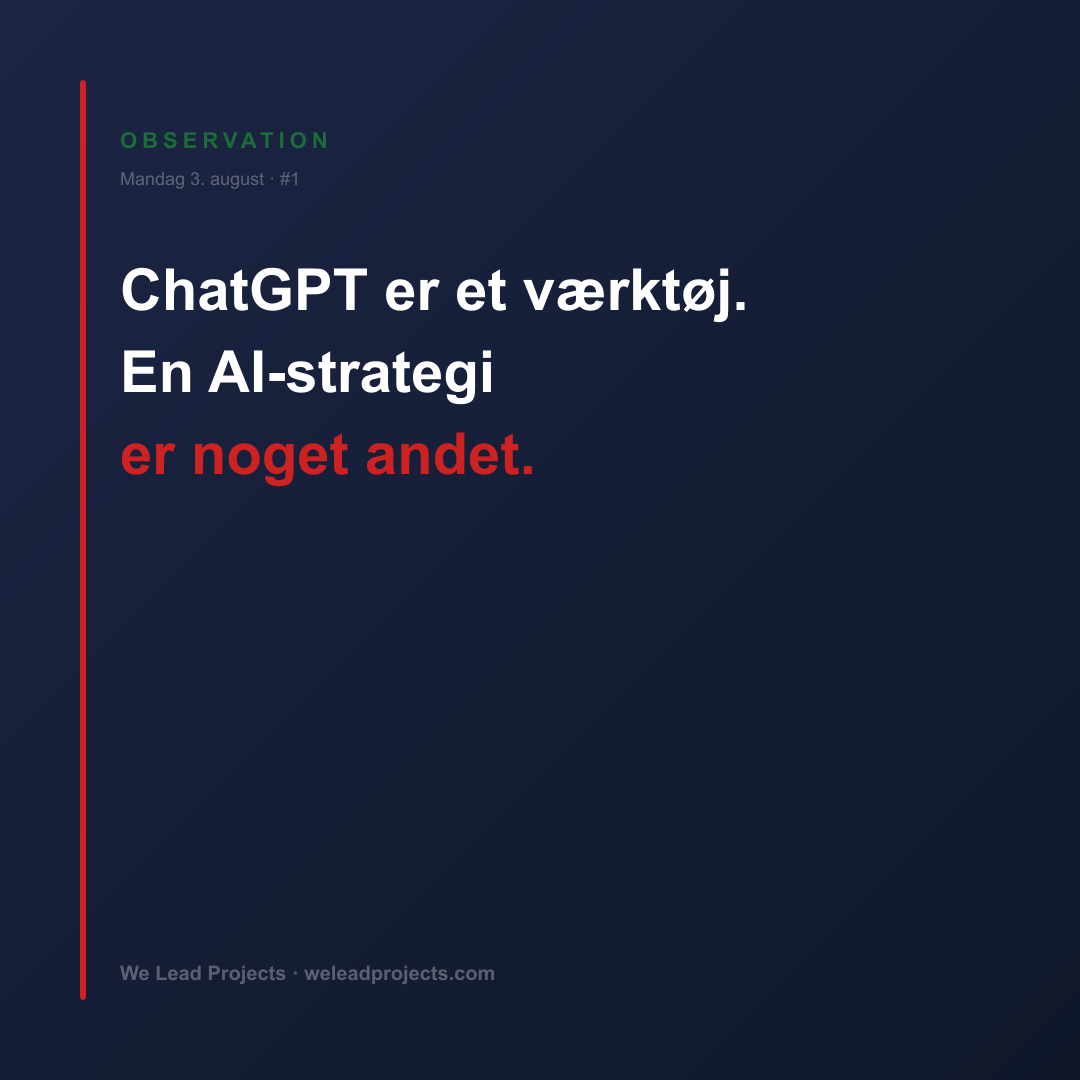
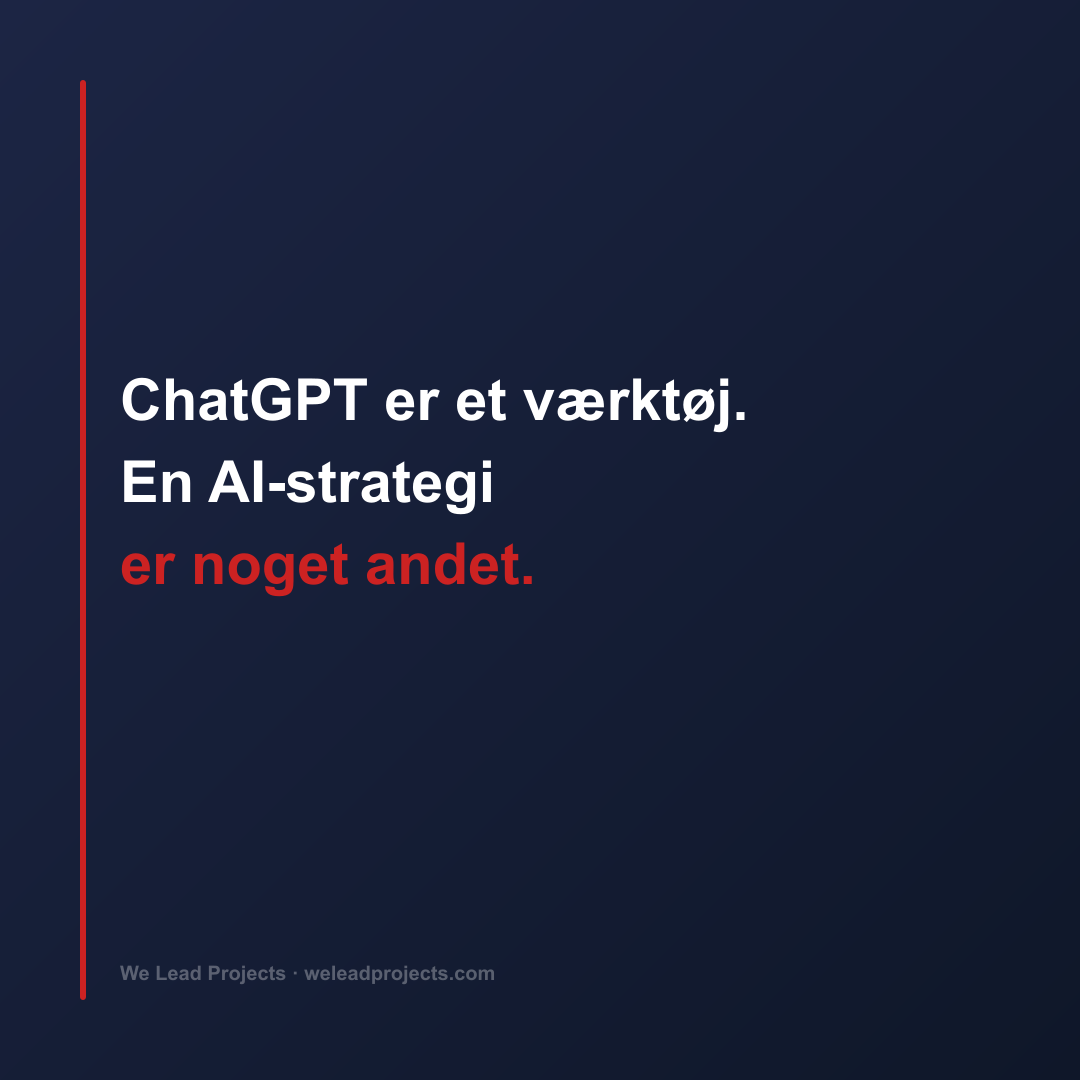
Fix LinkedIn-automation: send til bt@weleadprojects.com, fjern header fra billeder
Modtager var fejlagtigt sat til privat mail. Billederne viste
type/dato/post-nummer i toppen, som ikke skal med på selve
LinkedIn-billedet — fjernet og citat recentreret.

Changed region(s): [[0.0917, 0.2444, 0.7028, 0.55], [0.1222, 0.1222, 0.3056, 0.1833]]

diff --git a/scripts/generate-all-linkedin-images.js b/scripts/generate-all-linkedin-images.js
@@ -4,12 +4,6 @@ const path = require("path");
 
 const posts = JSON.parse(fs.readFileSync("content/linkedin-posts.json", "utf8"));
 
-const TYPE_COLORS = {
-  Observation: { label: "1C6B3A", bg: "navy" },
-  Provokation: { label: "CC2222", bg: "navy" },
-  "Spørgsmål": { label: "4A6FA5", bg: "navy" },
-};
-
 // Key quote lines for each post (last line shown in red)
 const quotes = [
   ["ChatGPT er et værktøj.", "En AI-strategi", "er noget andet."],
@@ -36,16 +30,10 @@ function esc(s) {
     .replace(/"/g, "&quot;");
 }
 
-function makeSvg(post, lines, index) {
-  const typeColor = TYPE_COLORS[post.type]?.label || "CC2222";
-  const d = new Date(post.date);
-  const dayNames = ["Søndag","Mandag","Tirsdag","Onsdag","Torsdag","Fredag","Lørdag"];
-  const monthNames = ["januar","februar","marts","april","maj","juni","juli","august","september","oktober","november","december"];
-  const dateStr = `${dayNames[d.getDay()]} ${d.getDate()}. ${monthNames[d.getMonth()]}`;
-
+function makeSvg(post, lines) {
   const fontSize = 58;
   const lineHeight = 82;
-  const startY = lines.length === 2 ? 380 : 310;
+  const startY = lines.length === 2 ? 480 : 420;
 
   const lineElements = lines.map((line, i) => {
     const y = startY + i * lineHeight;
@@ -62,8 +50,6 @@ function makeSvg(post, lines, index) {
   </defs>
   <rect width="1080" height="1080" fill="url(#bg)"/>
   <rect x="80" y="80" width="6" height="920" fill="#cc2222" rx="3"/>
-  <text x="120" y="148" font-family="Arial, sans-serif" font-size="22" font-weight="bold" fill="#${typeColor}" letter-spacing="5">${esc(post.type.toUpperCase())}</text>
-  <text x="120" y="185" font-family="Arial, sans-serif" font-size="18" fill="rgba(255,255,255,0.3)">${esc(dateStr)} · #${index + 1}</text>
   ${lineElements}
   <text x="120" y="980" font-family="Arial, sans-serif" font-size="20" font-weight="bold" fill="rgba(255,255,255,0.3)">We Lead Projects · weleadprojects.com</text>
 </svg>`;
@@ -73,7 +59,7 @@ async function generateAll() {
   for (let i = 0; i < posts.length; i++) {
     const post = posts[i];
     const lines = quotes[i];
-    const svg = makeSvg(post, lines, i);
+    const svg = makeSvg(post, lines);
     const outPath = `public/linkedin-post-${i + 1}.png`;
     await sharp(Buffer.from(svg)).png().toFile(outPath);
     console.log(`✓ Post ${i + 1}: ${outPath}`);

diff --git a/scripts/send-linkedin-post.js b/scripts/send-linkedin-post.js
@@ -40,7 +40,7 @@ const html = `
 
 const payload = JSON.stringify({
   from: 'We Lead Projects <noreply@weleadprojects.com>',
-  to: ['brian@tofft.info'],
+  to: ['bt@weleadprojects.com'],
   subject: `LinkedIn ${post.type} — ${today}`,
   text: post.content,
   html,
